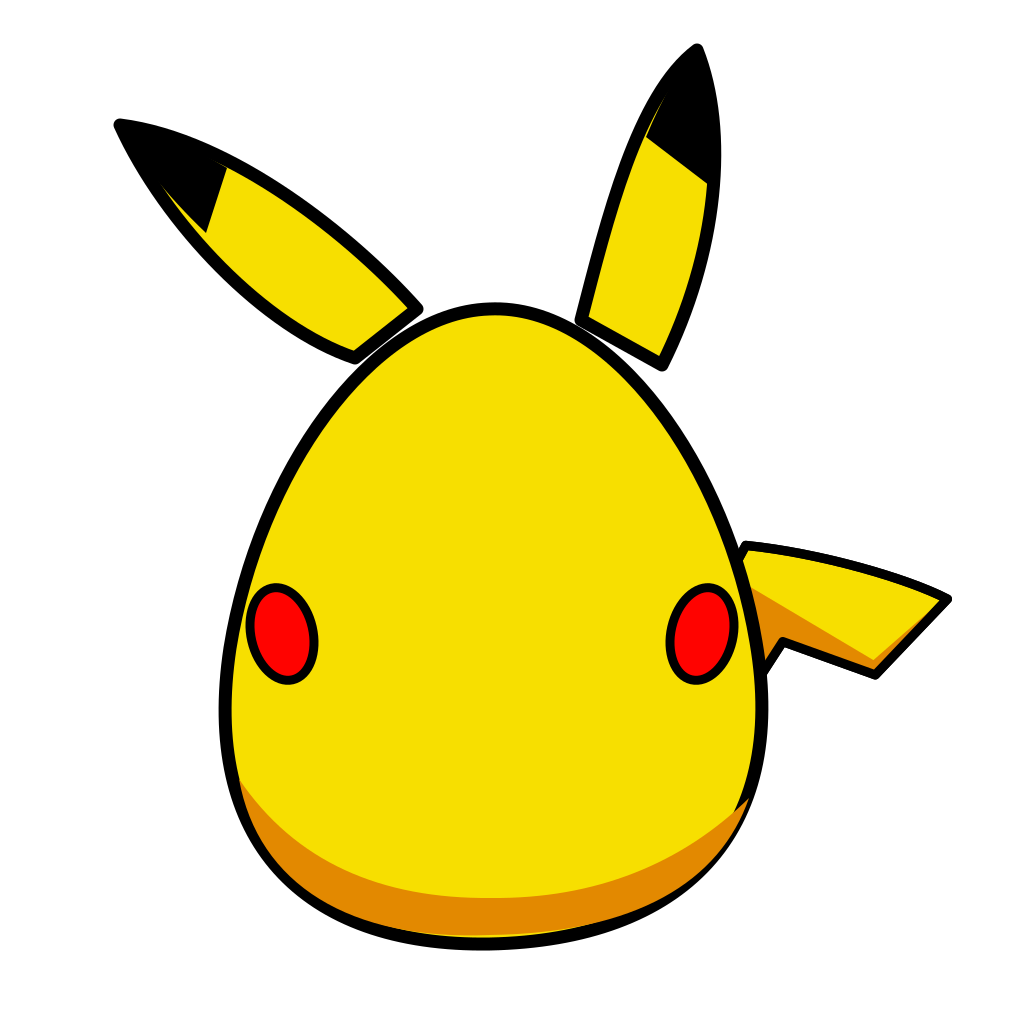
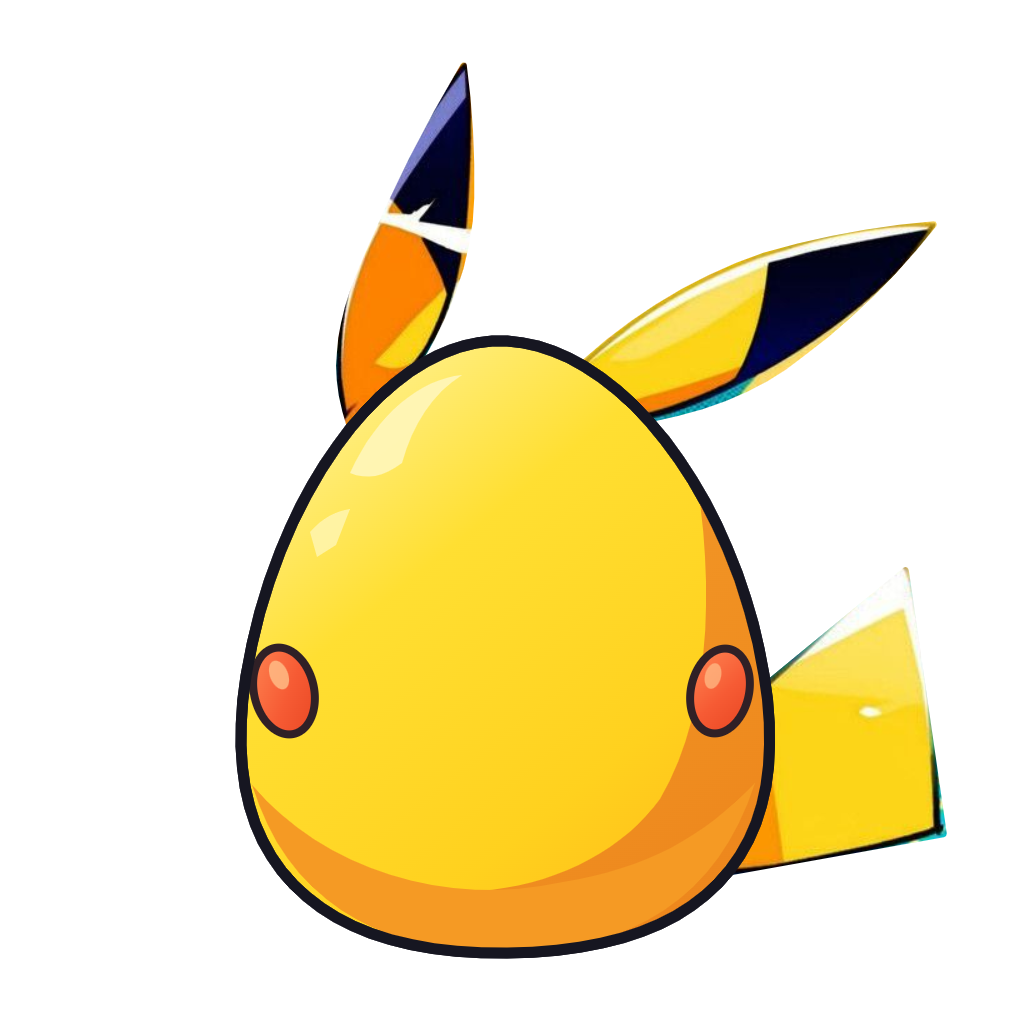
pikachu

diff --git a/richy/app/index.html b/richy/app/index.html
@@ -142,7 +142,7 @@
             (function (window, document) {
                 'use strict';
 
-        window.APP_VERSION = '20261015-277';
+        window.APP_VERSION = '20261015-278';
 
                 function versionedUrl(url) {
                     var separator = url.indexOf('?') >= 0 ? '&' : '?';

diff --git a/richy/app/assets/images/learning-pets/pikachu/design.md b/richy/app/assets/images/learning-pets/pikachu/design.md
@@ -6,19 +6,21 @@ The hatched character uses the user's jumping Pikachu poster, preserved as `refe
 
 | Vocabulary level | SVG source | Runtime PNG | Appearance |
 | --- | --- | --- | --- |
-| 18 | `egg-level-18.svg` | `egg-level-18.png` | Unbroken yellow egg, splayed black-tipped ears, red cheek markings, orange cel shading and a lightning tail matching the reference |
-| 19 | `egg-level-19.svg` | `egg-level-19.png` | Cracked shell using the actual reference head and ears, with small paws holding the rim |
+| 18 | `egg-level-18.svg` | `egg-level-18.png` | Golden-yellow shell with orange shading and coral cheek markings; actual tall left ear, swept-right ear and tail from the latest poster |
+| 19 | `egg-level-19.svg` | `egg-level-19.png` | Matching cracked shell, with the latest poster's actual brown-eyed face and ears emerging above the rim and two stationary paws |
 | 20 and later | `pet-level-20.svg` | `pet-level-20.png` | Jumping Pikachu extracted from the latest supplied poster |
 
 Selection key: `CUTE_PIKACHU`. Administrators can choose the fully hatched form at any real level, without gaining vocabulary experience.
 
 ## Design references
 
-The existing Tom, Jerry and Tuffy egg stages inform the progression: an intact shell carries the character's ears, colors and distinctive markings; the cracked stage exposes the head and paws; the hatched stage shows the full character. The egg illustrations retain their previous reference and progression. The new hatched artwork keeps the latest poster's yellow/orange shading, black outlines, red cheeks, eye highlights, open mouth and jumping pose.
+The existing Tom, Jerry and Tuffy egg stages inform the progression: an intact shell carries the character's ears, colors and distinctive markings; the cracked stage exposes the head and paws; the hatched stage shows the full character. All three Pikachu stages now follow the latest poster: golden yellow, warm orange cel shading, navy-black ear tips and coral red cheeks. Both egg stages reuse the poster's actual ear and tail pixels; the cracked stage also reuses its actual face. The shells and stationary rim paws remain editable SVG shapes.
 
-The earlier uploaded 308 × 350 PNG remains preserved as `reference-original.png`, with its cutout in `reference-transparent.png` for the egg artwork. The latest uploaded 640 × 1138 poster is preserved separately as `reference-jumping-original.png`.
+The earlier uploaded 308 × 350 PNG remains preserved as `reference-original.png`, with its old cutout in `reference-transparent.png` for archival reference. All current stages use the latest uploaded 640 × 1138 poster, preserved as `reference-jumping-original.png`.
 
 All SVGs use a 1024 × 1024 viewBox. The new SVGs reference the packaged poster in the same directory; export tools must resolve that image or embed it when rendering. All runtime PNGs are square RGBA images with actual transparent pixels. The body and lightning use the identical `translate(112 15) scale(1.16)` composition so their pixels align. No external image service is used at runtime.
+
+Unlock levels and filenames stay unchanged: intact egg at level 18, cracked egg at level 19, and the hatched character from level 20. Versioned shared image URLs update the assistant, picker, battle portraits and reward previews together. The existing egg idle motion is retained; neither egg has waving or the hatched character's flashing-lightning layer.
 
 ## Assistant animation
 
